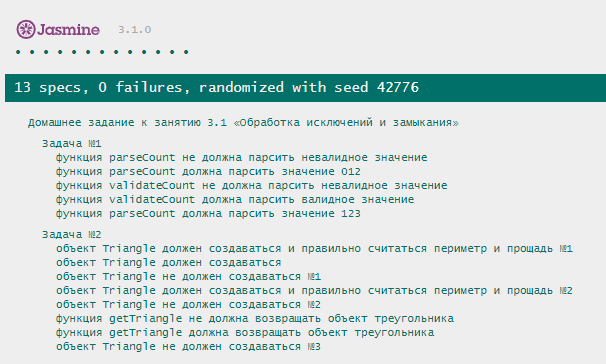
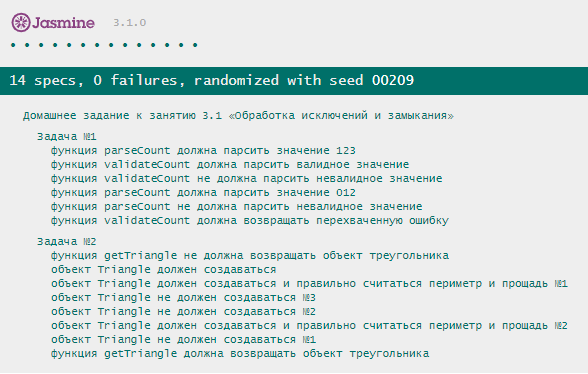
Add test to check return thrown exceptions

Changed region(s): [[0.0, 0.1813, 1.0, 0.6044], [0.0612, 0.6346, 0.9796, 0.967], [0.0, 0.0302, 0.3367, 0.1511]]

diff --git a/3.1-exceptions-closure/tests.js b/3.1-exceptions-closure/tests.js
@@ -19,6 +19,10 @@ describe('Домашнее задание к занятию 3.1 «Обработ
         it('функция validateCount не должна парсить невалидное значение', () => {
             expect(validateCount("ыфва")).toEqual(new Error("Невалидное значение"));
         });
+
+        it('функция validateCount должна возвращать перехваченную ошибку', () => {
+            expect(validateCount("ыфва").stack.includes("parseCount")).toBeTruthy();
+        });
     });
 
     describe('Задача №2', () => {
